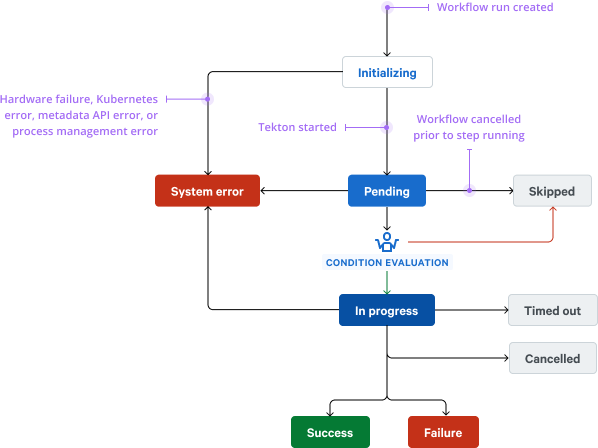
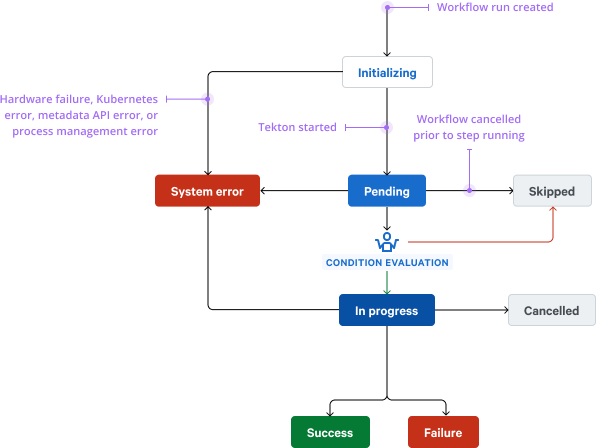
Clarify relationship between step state and run state, update terminology, remove `timed-out` status, add concept of policies and failure modes

diff --git a/0000-step-execution-outcomes.md b/0000-step-execution-outcomes.md
@@ -26,8 +26,8 @@ different rules that have more clarity for end users.
 ## Motivation
 
 This change is relatively simple technically (updating some state fields in our
-Kubernetes workflow resource) and provides a great deal of clarity for
-implementers of workflow visualization UIs and end users.
+Kubernetes resources) and provides a great deal of clarity for implementers of
+workflow visualization UIs and end users.
 
 ## Product-level explanation
 
@@ -35,21 +35,24 @@ We address the issue of different outcomes per step type (that is, container
 steps having `success` and `failure` but approval steps having `accepted` and
 `rejected`) by making the definition of a step more strict.
 
-This RFC defines a **step** as a unit of computational work. Other processes,
-such as approvals and triggers, are not steps, and shall not be included with
-steps in workflows. We expect there to be multiple step types in the future (for
-example, groups of steps), but they will all have a common `success` or
-`failure` outcome.
+This RFC defines a **step** as a unit of computational **work**. Other
+processes, such as approvals and triggers, are not steps, and shall not be
+included with steps in workflows. We expect there to be multiple step types in
+the future (for example, groups of steps), but they will all have a common
+`success` or `failure` outcome.
 
-### Asks
+### Actions
 
 As it relates to our current implementation, we introduced the concept of step
-types to support approvals, a non-work process. We therefore propose a new
-generic structure for approvals, **asks**, that is external to, and referential
-to, steps. We believe this will create a clearer user experience. A separate RFC
-will address the technical implementation of asks, but we highlight the change
-here because we eliminate the `approved` (expressed as `success`) and `rejected`
-step statuses as part of this RFC.
+types to support approvals, a *non-work* process. We therefore propose a new
+generic structure for approvals, **queries**, that is external to, and
+referential to, steps. We believe this will create a clearer user experience. A
+separate RFC will address the technical implementation of queries, but we
+highlight the change here because we eliminate the `approved` (expressed as
+`success`) and `rejected` step statuses as part of this RFC.
+
+Holistically, steps and queries belong to a category of atomic functionality we
+refer to as **actions**.
 
 In summary, today we have a YAML document with an approval step:
 
@@ -66,22 +69,22 @@ steps:
 We propose to replace this with a more substantial feature:
 
 ```yaml
-asks:
+queries:
 - name: my-gate
-  image: projectnebula/ask-manual-gate
+  image: projectnebula/query-manual-gate
   spec:
     question: !Fn.concat ['Do you want to deploy ', !Parameter project, '?']
 
 steps:
 - name: deploy
-  when: !Answer my-gate
+  when: !Reply my-gate
   image: projectnebula/terraform
   # ...
 ```
 
-This allows customers to bring their own asks as long as they conform to our
-asks API. (In this case, we use our own manual gate image, which may also be the
-default.)
+This allows customers to bring their own queries as long as they conform to our
+queries API. (In this case, we use our own manual gate image, which may also be
+the default.)
 
 ## Engineering-level explanation
 
@@ -91,8 +94,8 @@ of which are rigorously defined.
 
 We propose to amend the set of execution statuses possible for all steps to be
 defined by a single FSM. In addition, we propose removing non-work steps
-entirely as well as the `rejected` status (see the discussion in the
-product-level explanation).
+entirely as well as the `rejected` (see the discussion in the product-level
+explanation) and `timed-out` (specialized case of `failure`) statuses.
 
 ### Resolution
 
@@ -111,8 +114,8 @@ short-circuit).
 
 The new step statuses are:
 
-* `initializing` (unresolved): The workflow run resource has been created, but
-  the execution backend (Tekton, metadata API) is not running yet.
+* `initializing` (unresolved): The run resource has been created, but the
+  execution backend (Tekton, metadata API) is not running yet.
 * `pending` (unresolved): The execution backend started and the step is waiting
   for all of its `when`-conditions to be satisfiable (*not* satisfied) before
   running.
@@ -128,29 +131,26 @@ The new step statuses are:
   accounting for the management of a step, the step transitions to a
   `system-error` status. This generally implies a hardware failure, Kubernetes
   error, metadata API error, or other management error that indicates a serious
-  problem with executing the Nebula workflow. It is different from a `failure`
-  status, which indicates that the work being supervised failed, not that the
-  supervision itself failed. When a step enters a `system-error` status, the
-  entire workflow is halted and the workflow run is considered indeterminate.
+  problem with executing the run. It is different from a `failure` status, which
+  indicates that the work being supervised failed, not that the supervision
+  itself failed. When a step enters a `system-error` status, the entire run is
+  halted and transitions to a `failure` status.
 * `skipped` (resolved): If either the `when`-conditions are not satisfied or the
-  workflow is cancelled prior to the step running, the step transitions to the
+  run is cancelled prior to the step running, the step transitions to the
   `skipped` status.
-* `timed-out` (resolved): If the step is `in-progress` and reaches a user- or
-  system-configured timeout, it may be terminated and transition to the
-  `timed-out` status.
-* `cancelled` (resolved): If the user requests workflow cancellation while a
-  step is in a `in-progress` status, the underlying process is immediately
-  interrupted and transitioned to this status.
+* `cancelled` (resolved): If a user agent requests cancellation while a step is
+  in an `in-progress` status, the underlying process is immediately interrupted
+  and transitioned to this status.
 
 These are a superset of the existing step statuses, so this serves to clarify
 their current meaning as well as reduce ambiguity by adding additional statuses.
 
 We define a new YAML tag, `!Status`, to refer to the resolved (terminal)
-status of a step. For example, we may want to run a particular step to perform cleanup work if another step timed out:
+status of a step. For example, we may want to run a particular step to perform cleanup work if another step failed:
 
 ```yaml
 when:
-- !Fn.equals [!Status some-step, timed-out]
+- !Fn.equals [!Status some-step, failure]
 ```
 
 ### API model
@@ -164,7 +164,7 @@ AnyWorkflowRunStepState:
   properties:
     status:
       type: string
-      description: Execution status of this workflow step
+      description: Execution status of this step
       enum:
       - initializing
       - pending
@@ -173,11 +173,101 @@ AnyWorkflowRunStepState:
       - failure
       - system-error
       - skipped
-      - timed-out
       - cancelled
       example: pending
     # ...
 ```
+
+### Run state
+
+One of the consequences of adding the ability to form conditions around resolved
+statuses of steps is that the failure of a step no longer has a one-to-one
+correlation to the failure of a run.
+
+For clarity, the statuses that apply to runs are:
+
+* `initializing` (unresolved): The run resource has been created, but the
+  execution backend (Tekton, metadata API) is not running yet.
+* `in-progress` (unresolved): The run is executing.
+* `success` (resolved): All steps associated with this run reached a resolved
+  status without an instruction to the run to transition to any other status.
+  Note that this does not necessarily mean that each step succeeded.
+* `failure` (resolved): All steps have a resolved status and one or more steps
+  implicitly or explicitly informed this run that it cannot be considered
+  successful.
+* `cancelled` (resolved): A user agent requested cancellation of the run.
+
+We discuss step failure below; however, the other resolved statuses of steps impact the run in the following ways:
+
+* `success`: No impact.
+* `system-error`: The run is immediately cancelled and transitions to a
+  `failure` status.
+* `skipped`: No impact.
+* `cancelled`: No impact (because cancellation can only be initiated from a
+  run).
+
+#### Implications of step failure
+
+*Note:* Queries have different implications for run state than steps. Queries
+are designed to either fail with a `system-error` or to provide replies. A
+failure of a query to provide its replies causes a terminal failure of a run.
+
+We intend to maintain backward compatibility with our current implementation,
+provided that workflow authors are not using conditions with `!Status`, which
+has the following behavior:
+
+1. If a step fails:
+   1. The run fails.
+   1. Steps that are currently `in-progress` continue until they reach a
+      resolved status.
+   1. Any steps that are still `pending` are transitioned to `skipped`.
+
+We propose the following implicit behavior rule that authors will expect when
+using conditions:
+
+2. If (a) a step fails, (b) a direct dependent specifically references its
+   status using `!Status` in a condition, and (c) the nearest predicate to the
+   status reference evaluates to `true`:
+   1. The run *does not* fail.
+   1. The execution of other steps is unaffected by the failure of this step,
+      except to the extent that they reference its status.
+
+As an example, this implicit behavior applies if an author uses the following
+`when` conditions:
+
+```yaml
+when: !Fn.equals [!Status step-a, failure]
+---
+when: !Fn.notEquals [!Status step-a, success]
+```
+
+We concede that this implicit behavior may not be sufficient for all use cases,
+so we introduce a new marker for steps, **failure mode**, to which we ascribe
+two possible values, `auto` or `ignore`. The default `auto` value provides the
+implicit behavior described above. The `ignore` value causes the failure of the
+step to never cause the run to fail. Of course, dependent steps that are
+conditioned on a success status will be transitioned to `skipped`.
+
+From an authoring perspective, we group this under an umbrella term of
+step-specific **policies**, which in the future may include instructions for
+retrying the step, execution time limits, and other administrative rules.
+
+For example:
+
+```yaml
+steps:
+- name: never-fails
+  image: alpine
+  input:
+  - exit 1
+  policies:
+    failureMode: ignore
+```
+
+We may want to add a `collect` failure mode that aggregates errors and
+eventually causes a run to have a `failure` status, but allows other steps in
+the workflow to continue executing. We leave this consideration for a future
+RFC.
 
 ### Additional considerations
 
